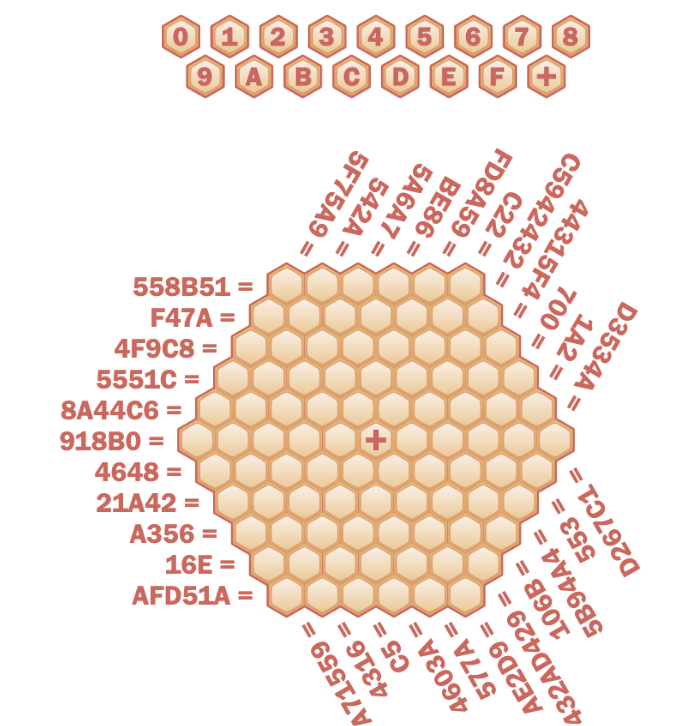
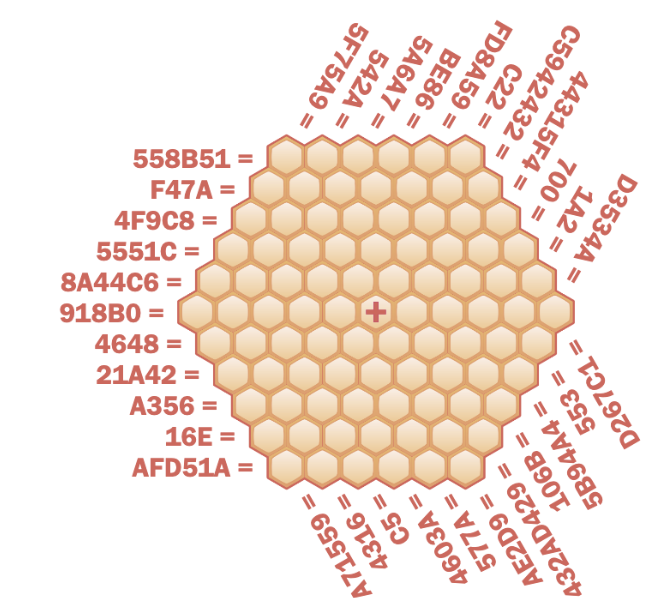
more carousel data updates

diff --git a/_projects/1_project.md b/_projects/1_project.md
@@ -9,7 +9,7 @@ category: Puzzles
 
 The first hunt I ever wrote for, <a href="https://2021.huntinality.com/">Huntinality</a>, was written with about 10 of my MIT Mystery Hunt teammates on Cardinality. I was the creative director and lead puzzle editor for this hunt, which consisted of around 20 puzzles. Nearly 500 teams participated in this hunt, which was exciting for what was our first writing effort. I've highlighted a few puzzles from the hunt below.
 
-<div id="huntCarousel" class="carousel slide" style="width:100%; height: 1000px !important;">
+<div id="huntCarousel" class="carousel slide" style="width:100%; height: 800px !important;">
   <div class="carousel-inner">
     <div class="carousel-item active">
       <img class="d-block w-100" src="/assets/img/wsb.png">
